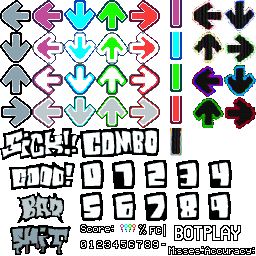
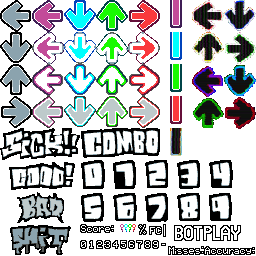
fixed combo clipping for shit emulators (im looking at you android players)

Changed region(s): [[0.3125, 0.5, 0.6562, 0.875], [0.6875, 0.625, 0.7812, 0.875], [0.8125, 0.625, 0.9062, 0.875]]

diff --git a/src/object/combo.c b/src/object/combo.c
@@ -26,7 +26,7 @@ boolean Obj_Combo_Tick(Object *obj)
 		RECT hit_src = {
 			0,
 			128 + (this->hit_type << 5),
-			80,
+			79,
 			clipp << 1
 		};
 
@@ -59,10 +59,10 @@ boolean Obj_Combo_Tick(Object *obj)
 			clipp = 16 - ((this->ct * 60) >> FIXED_SHIFT);
 		
 		RECT combo_src = {
-			80,
+			81,
 			128,
-			80,
-			clipp << 1
+			79,
+			clipp - 2 << 1
 		};
         RECT_FIXED combo_dst = {
 			this->x + FIXED_DEC(77,1),
@@ -102,7 +102,7 @@ boolean Obj_Combo_Tick(Object *obj)
 				80  + ((num % 5) << 5),
 				160 + ((num / 5) << 5),
 				32,
-				clipp << 1
+				clipp - 1 << 1
 			};
             RECT_FIXED num_dst = {
 				this->x - FIXED_DEC(20,1) + (i * FIXED_DEC(16,1)) - FIXED_DEC(12,1),
